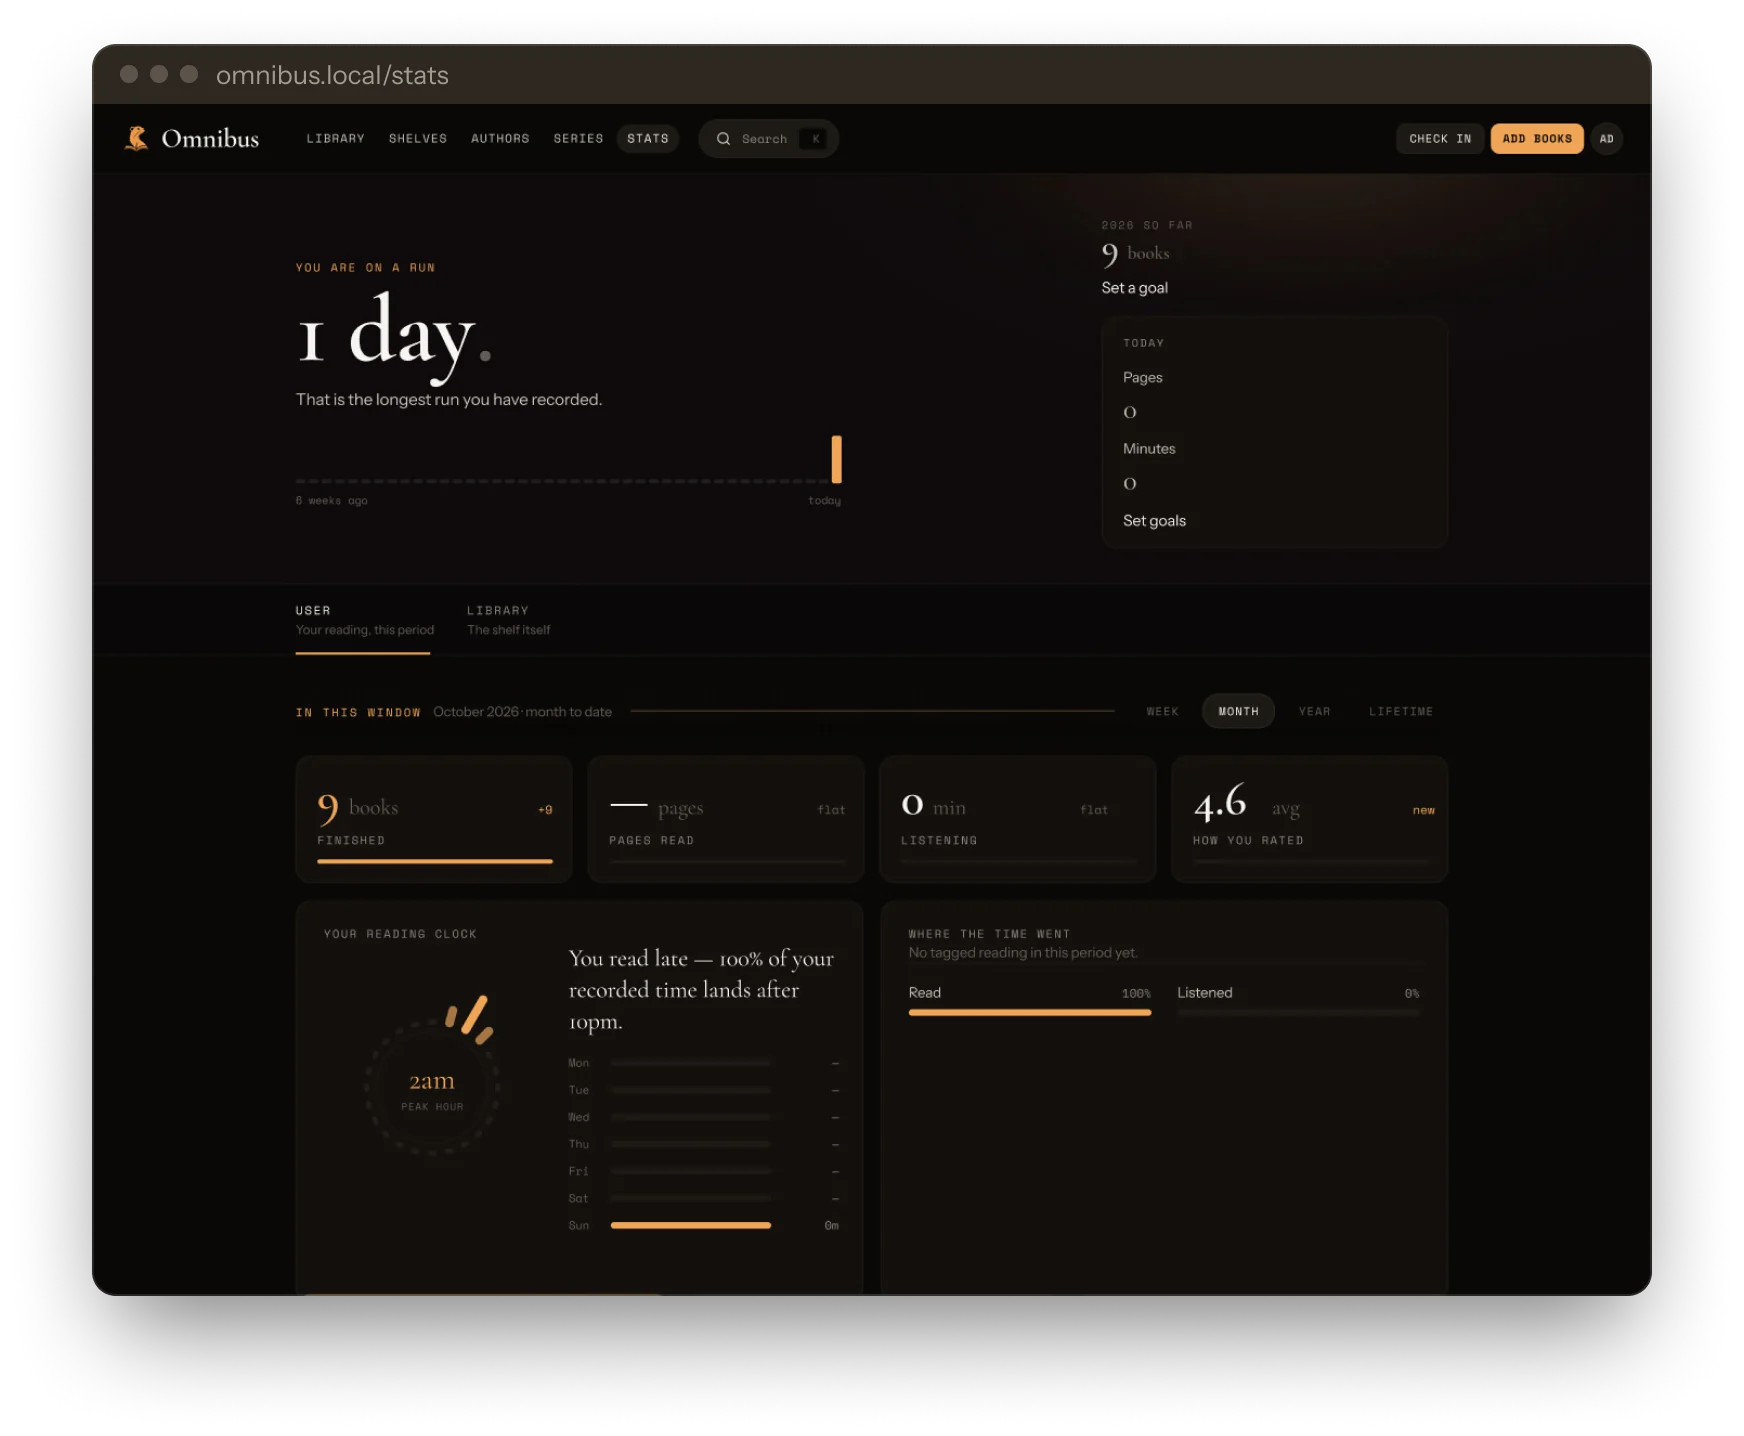
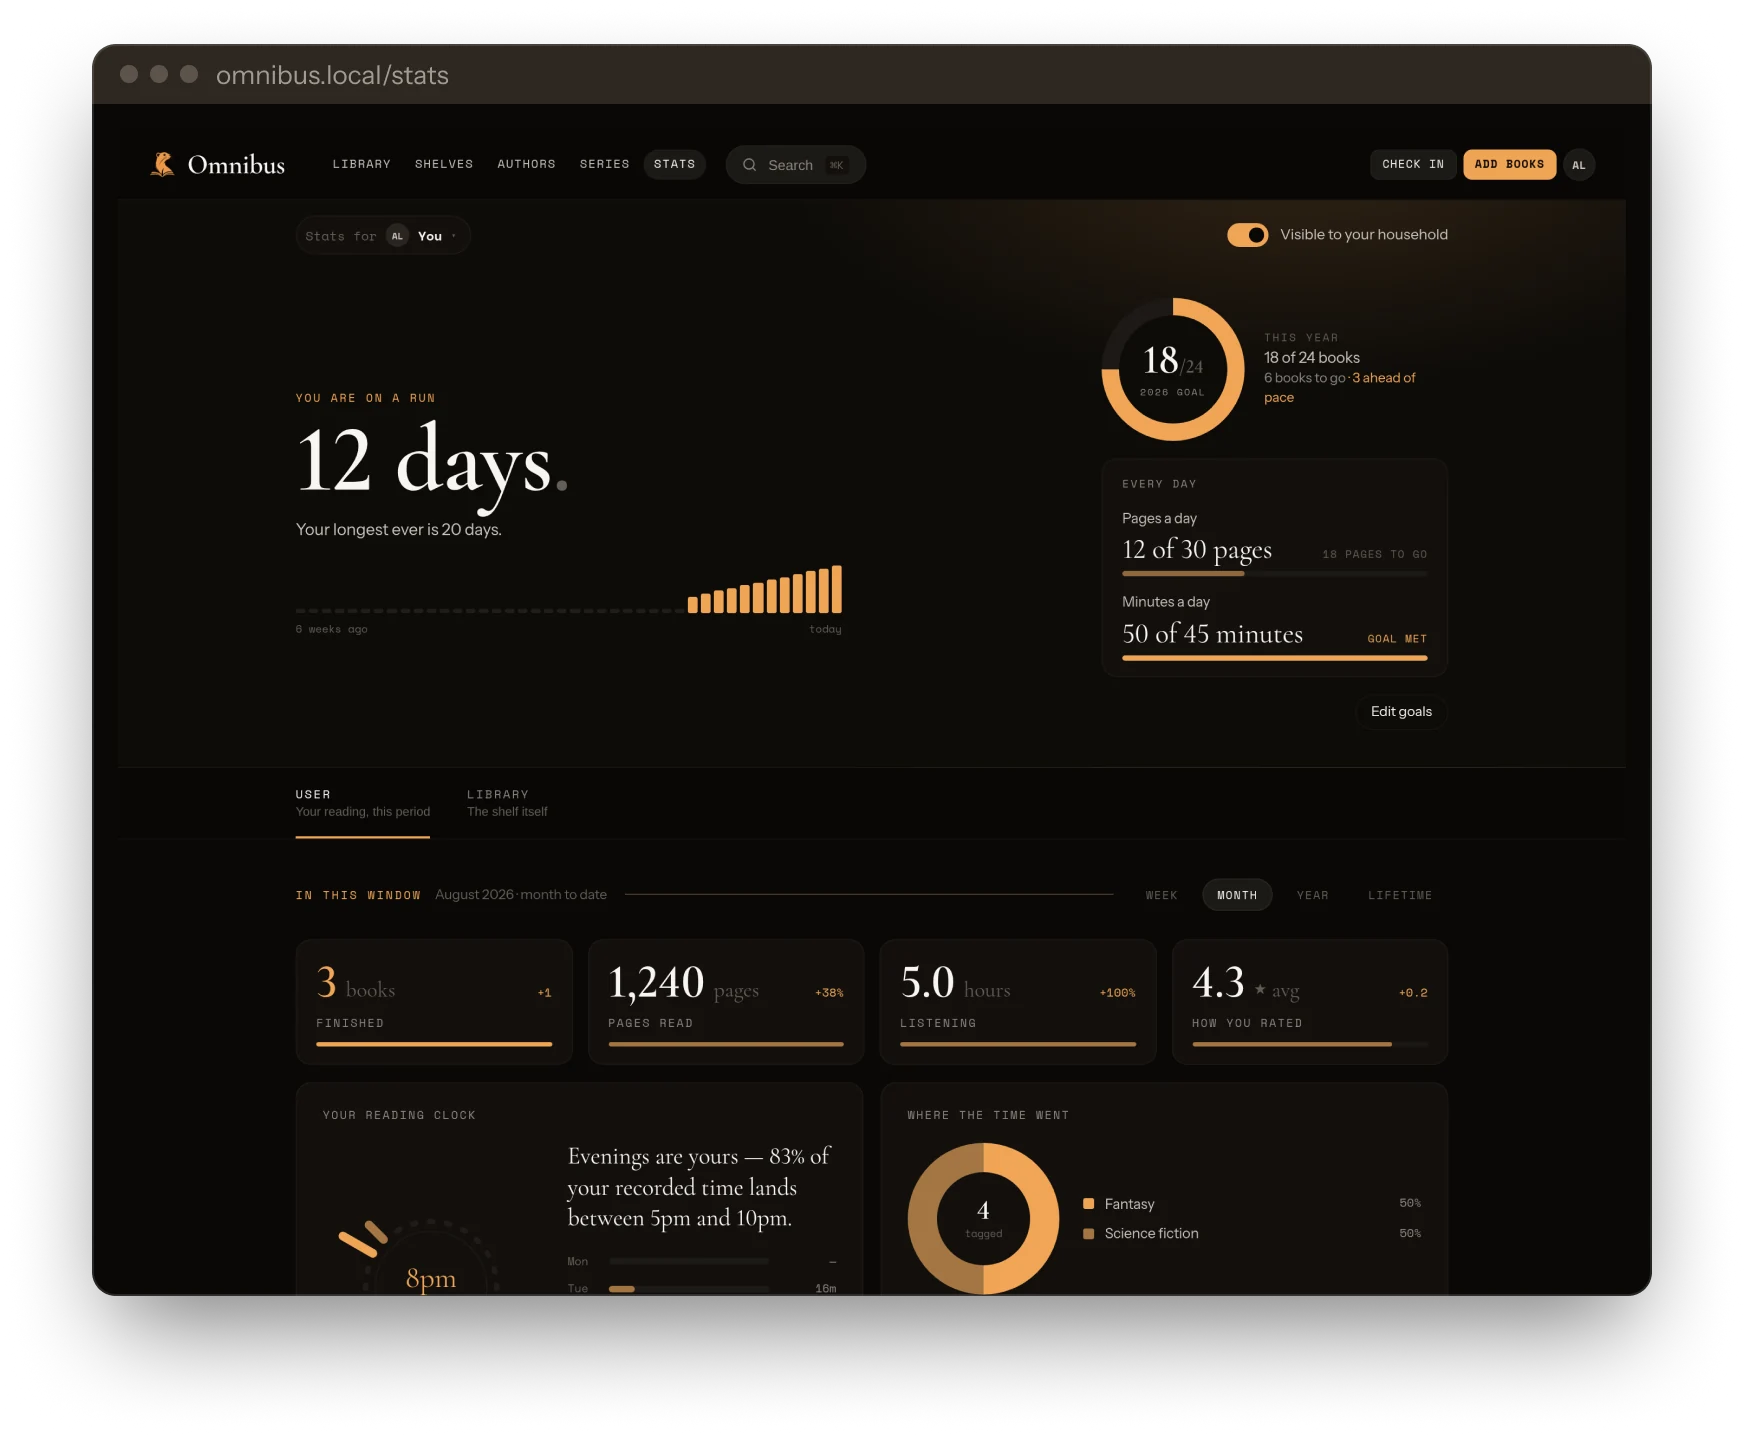
feat: list the site's features plainly and add household and iOS sections
Rewrite the section headings as a feature list instead of one book's
journey, show shared shelves, the stats reader picker and a book's
household block for the household section, refresh the stats still with
goals set, and add a section for the Continue widgets and CarPlay.

diff --git a/site/src/index.html b/site/src/index.html
@@ -2,10 +2,10 @@
 <html lang="en">
 <head>
 <meta charset="utf-8">
-<title>Omnibus · one book, every way you read</title>
+<title>Omnibus · all your books, in one library</title>
 <meta name="viewport" content="width=device-width,initial-scale=1">
 <meta name="description" content="Omnibus is the self-hosted library for the ebooks, comics and audiobooks you already own. Read on a Kobo, KOReader, Kindle, iPhone or the web, listen to the audiobook, and talk the book over with your AI.">
-<meta property="og:title" content="Omnibus · one book, every way you read">
+<meta property="og:title" content="Omnibus · all your books, in one library">
 <meta property="og:description" content="The self-hosted library for the ebooks, comics and audiobooks you already own.">
 <meta property="og:type" content="website">
 <meta property="og:image" content="shots/d-stop3.webp">
@@ -21,7 +21,7 @@
 <header class="top">
   <a class="brand" href="#top" aria-label="Omnibus, back to top"><img src="assets/omnibus-stoat.png" alt="" width="26" height="26"><span>Omnibus</span></a>
   <nav class="nav" aria-label="Site">
-    <a class="wide" href="#journey">The journey</a>
+    <a class="wide" href="#journey">Features</a>
     <a class="wide" href="#why">Why switch</a>
     <a class="wide" href="https://github.com/omnibus-library/omnibus">GitHub</a>
     <a href="https://discord.gg/hb6Q3hWuq">Discord</a>
@@ -34,7 +34,7 @@
 <section class="hero" aria-labelledby="hero-h">
   <div class="canvas">
     <div class="hero-copy">
-      <h1 id="hero-h">One book,<br> every way<br> you read.</h1>
+      <h1 id="hero-h">All your books,<br> in one library.</h1>
       <p class="sub">Omnibus is the self-hosted library for the ebooks, comics and audiobooks you already own.</p>
       <div class="ctas">
         <a class="btn" href="https://github.com/omnibus-library/omnibus/blob/main/docs/docker.md">Deploy with Docker</a>
@@ -65,11 +65,11 @@
   </div>
 </section>
 
-<section class="stop" aria-labelledby="s2-h" style="--fh:806;--cy:424;--tx:1040;--hw:340;--bw:340">
+<section class="stop" aria-labelledby="s2-h" style="--fh:806;--cy:424;--tx:1010;--hw:400;--bw:340">
   <div class="canvas">
     <div class="copy">
-      <h2 id="s2-h">Home, in every format.</h2>
-      <p>Omnibus reads any folder of ebooks and audiobooks and skips the formats it can't open. Once a file is in the library, Omnibus never writes to it. Your edits live in the Omnibus database and reach a book only when you export it or sync it to a device.</p>
+      <h2 id="s2-h">Bring your whole library. Even physical books.</h2>
+      <p>Omnibus reads any folder of ebooks and audiobooks and skips unsupported formats. Once a file is in the library, Omnibus never writes to it. Your edits live in the Omnibus database and reach a book only when you export it or sync it to a device.</p>
       <p>Check in the books on your shelves at home, and each physical copy appears next to its ebook and audiobook.</p>
     </div>
     <picture class="stage" style="--x:14;--y:88;--w:1012;--mx:-8;--mw:406">
@@ -82,7 +82,7 @@
 <section class="stop alt text-left" aria-labelledby="s3-h" style="--fh:857;--cy:444;--tx:100;--hw:420;--bw:400">
   <div class="canvas">
     <div class="copy">
-      <h2 id="s3-h">Read on your favorite e&#8209;reader or phone.</h2>
+      <h2 id="s3-h">Read on your favorite e&#8209;reader, browser, tablet, or phone.</h2>
       <p>Mark a shelf "Sync to my devices" and your Kobo or KOReader pulls its books, progress, highlights and stats on every sync. Kindle readers get books by email with Send to Kindle.</p>
       <p>Kobo, KOReader and the apps all report your place to the server, so the next device you pick up opens where you stopped.</p>
       <p>The iPhone app downloads books and audiobooks for offline use, so you can keep reading without a connection.</p>
@@ -112,7 +112,7 @@
 <section class="stop alt text-left" aria-labelledby="s5-h" style="--fh:880;--cy:440;--tx:100;--hw:420;--bw:400">
   <div class="canvas">
     <div class="copy">
-      <h2 id="s5-h">Then talk it over.</h2>
+      <h2 id="s5-h">Talk it over.</h2>
       <p>The MCP server can read what you've finished, your highlights, your library and your reading stats.</p>
       <p>Ask your LLM about a book, and it can catch you up on what you missed without spoiling what's ahead, or start a conversation about a passage you highlighted.</p>
       <p>Organize your library with one prompt. The Omnibus MCP can fix metadata and create shelves for you and your household.</p>
@@ -127,7 +127,7 @@
 <section class="stop" aria-labelledby="s6-h" style="--fh:842;--cy:364;--tx:1000;--hw:380;--bw:360">
   <div class="canvas">
     <div class="copy">
-      <h2 id="s6-h">Finish it. Share your thoughts.</h2>
+      <h2 id="s6-h">Share your thoughts.</h2>
       <p>Rate it, review it, keep a journal as you read, and turn any highlight into a customizable quote card to download or share.</p>
     </div>
     <picture class="stage" style="--x:34;--y:88;--w:952;--mx:-8;--mw:406">
@@ -137,15 +137,15 @@
   </div>
 </section>
 
-<section class="stop alt text-left" aria-labelledby="s7-h" style="--fh:846;--cy:423;--tx:100;--hw:420;--bw:400">
+<section class="stop alt text-left" aria-labelledby="s7-h" style="--fh:846;--cy:423;--tx:100;--hw:460;--bw:400">
   <div class="canvas">
     <div class="copy">
-      <h2 id="s7-h">Watch the year add up.</h2>
+      <h2 id="s7-h">Track your reading. Set your goals.</h2>
       <p>Keep a streak going, browse a reading calendar, see which hours of the day you read, and set goals for books a year or pages and minutes a day.</p>
     </div>
     <picture class="stage" style="--x:554;--y:88;--w:872;--mx:19;--mw:352">
       <source media="(min-width: 1200px)" srcset="shots/d-stop7.webp" width="1744" height="1436">
-      <img src="shots/m-stop7.webp" width="704" height="1220" loading="lazy" alt="The stats page with a reading streak, a calendar, the hours you read, and yearly goals.">
+      <img src="shots/m-stop7.webp" width="704" height="1220" loading="lazy" alt="The stats page with a 12-day reading streak, a yearly goal of 24 books, daily page and minute goals, and the hours you read.">
     </picture>
   </div>
 </section>
@@ -153,12 +153,27 @@
 <section class="stop" aria-labelledby="s8-h" style="--fh:737;--cy:368;--tx:920;--hw:420;--bw:400">
   <div class="canvas">
     <div class="copy">
-      <h2 id="s8-h">The whole house reads.</h2>
-      <p>Everyone gets their own account, shelves and progress on the same library, and each reader decides whether to share their stats with the house.</p>
+      <h2 id="s8-h">Share it with your household.</h2>
+      <p>Everyone gets their own account, progress and shelves on the same library. Make a shelf public and the whole house can browse it.</p>
+      <p>Readers who share their stats can see each other's streaks and goals, and every book page shows who else is reading it and how they rated it.</p>
     </div>
-    <picture class="stage" style="--x:54;--y:88;--w:872;--mx:-8;--mw:406">
-      <source media="(min-width: 1200px)" srcset="shots/d-stop8.webp" width="1744" height="1218">
-      <img src="shots/m-stop8.webp" width="812" height="594" loading="lazy" alt="Household stats comparing what each reader in the house has read.">
+    <picture class="stage" style="--x:54;--y:42;--w:892;--mx:-22;--mw:412">
+      <source media="(min-width: 1200px)" srcset="shots/d-stop8.webp" width="1784" height="1342">
+      <img src="shots/m-stop8.webp" width="824" height="1054" loading="lazy" alt="The shelves page grouped by owner, with Grace, Linus and Maya's public shelves next to yours, the stats reader picker, and a book page listing who else in the household is reading it.">
+    </picture>
+  </div>
+</section>
+
+<section class="stop alt text-left" aria-labelledby="s9-h" style="--fh:880;--cy:440;--tx:100;--hw:460;--bw:400">
+  <div class="canvas">
+    <div class="copy">
+      <h2 id="s9-h">On your home screen and in your car.</h2>
+      <p>Add the Continue widget to your iPhone home screen, and the book you were last in is one tap away. The medium size flips through the three you have going, and the large one lists up to five.</p>
+      <p>Plug into CarPlay and your audiobooks come along. Pick up from Continue, browse the Library, jump between chapters, change the speed and drop a bookmark from the dashboard.</p>
+    </div>
+    <picture class="stage" style="--x:472;--y:68;--w:968;--mx:0;--mw:390">
+      <source media="(min-width: 1200px)" srcset="shots/d-stop9.webp" width="1936" height="1578">
+      <img src="shots/m-stop9.webp" width="780" height="1787" loading="lazy" alt="CarPlay playing Moby-Dick with speed, bookmark and chapter buttons, next to an iPhone home screen with the medium, large and small Continue widgets.">
     </picture>
   </div>
 </section>

diff --git a/site/src/site.css b/site/src/site.css
@@ -138,8 +138,8 @@ h1,h2{font-family:var(--serif);font-weight:500;color:var(--ink);text-wrap:balanc
   .hero{padding-top:0}
   .hero .canvas{--fh:900;display:block}
   .pins{position:absolute;margin:0;left:calc(760 * var(--u));top:calc(110 * var(--u));width:calc(578 * var(--u))}
-  .hero-copy{position:absolute;left:calc(80 * var(--u));top:calc(190 * var(--u));width:calc(500 * var(--u))}
-  .hero h1{margin:0;font-size:calc(104 * var(--u));line-height:.95;letter-spacing:-0.025em}
+  .hero-copy{position:absolute;left:calc(80 * var(--u));top:calc(240 * var(--u));width:calc(500 * var(--u))}
+  .hero h1{margin:0;width:calc(660 * var(--u));font-size:calc(96 * var(--u));line-height:.95;letter-spacing:-0.025em}
   .hero h1 br{display:inline}
   .hero .sub{margin-top:calc(28 * var(--u));font-size:max(17px,calc(20 * var(--u)))}
   .hero .ctas{margin-top:calc(66 * var(--u))}

diff --git a/docs/architecture.md b/docs/architecture.md
@@ -253,7 +253,7 @@ on every push to `main` that touches it.
 
 | Path | Role |
 |---|---|
-| `src/index.html` | One book's life through the product: hero, eight stops, why switch, the rest of the shelf, close. All copy is real markup, never baked into an image. |
+| `src/index.html` | The feature tour: hero, nine feature sections, why switch, the rest of the shelf, close. All copy is real markup, never baked into an image. |
 | `src/site.css` | From 1200px up, each section is a scaled copy of the 1440 desktop comp: positions are comp pixels times `--u`, one comp pixel at the current width. Below 1200px the page is the 390 phone comp's single column. |
 | `src/app.js` | Swaps the static release line in "What only Omnibus does" for the latest release tag and the last 30 days' commit count from the GitHub API, and walks the desktop shelf's books round their ellipse. The page reads the same without it, and the orbit stays still under `prefers-reduced-motion`. |
 | `src/shots/` | One transparent WebP per section and layout, `d-<section>` for desktop and `m-<section>` for phone, with the app screens and device frames already placed. The hero is the exception: `hero-cover.webp` is the bare cover, and its four pins are markup so they can float and light up in turn, top to bottom (still under `prefers-reduced-motion`). The shelf is the other: `shots/shelf/` holds one image per book, `d-*` for the desktop orbit and `m-*` for the phone stack, so each can move and wiggle on its own. |
@@ -265,6 +265,12 @@ REST API and composited in place, shadows included. The `style` attribute on eac
 section and stage carries its comp coordinates (`--fh`, `--cy`, `--x`, `--y`,
 `--w`, and `--mx`/`--mw` for phone), so re-exporting a stage means updating those
 numbers too.
+
+The app screens in the comps are real UI. The web ones are screenshots of the React
+client, some from a dev server and some (shelves, stats, a book's household) from
+its Storybook components fed fixture data. The iOS widgets and CarPlay are drawn in
+Figma from the SwiftUI and CarPlay template code, with the widget colors from the
+app's own OKLCH tone formula.
 
 Serve it locally with `python3 -m http.server 8000 --directory site/src`, and
 check both layouts: 1200px and up, and the phone column below it.
